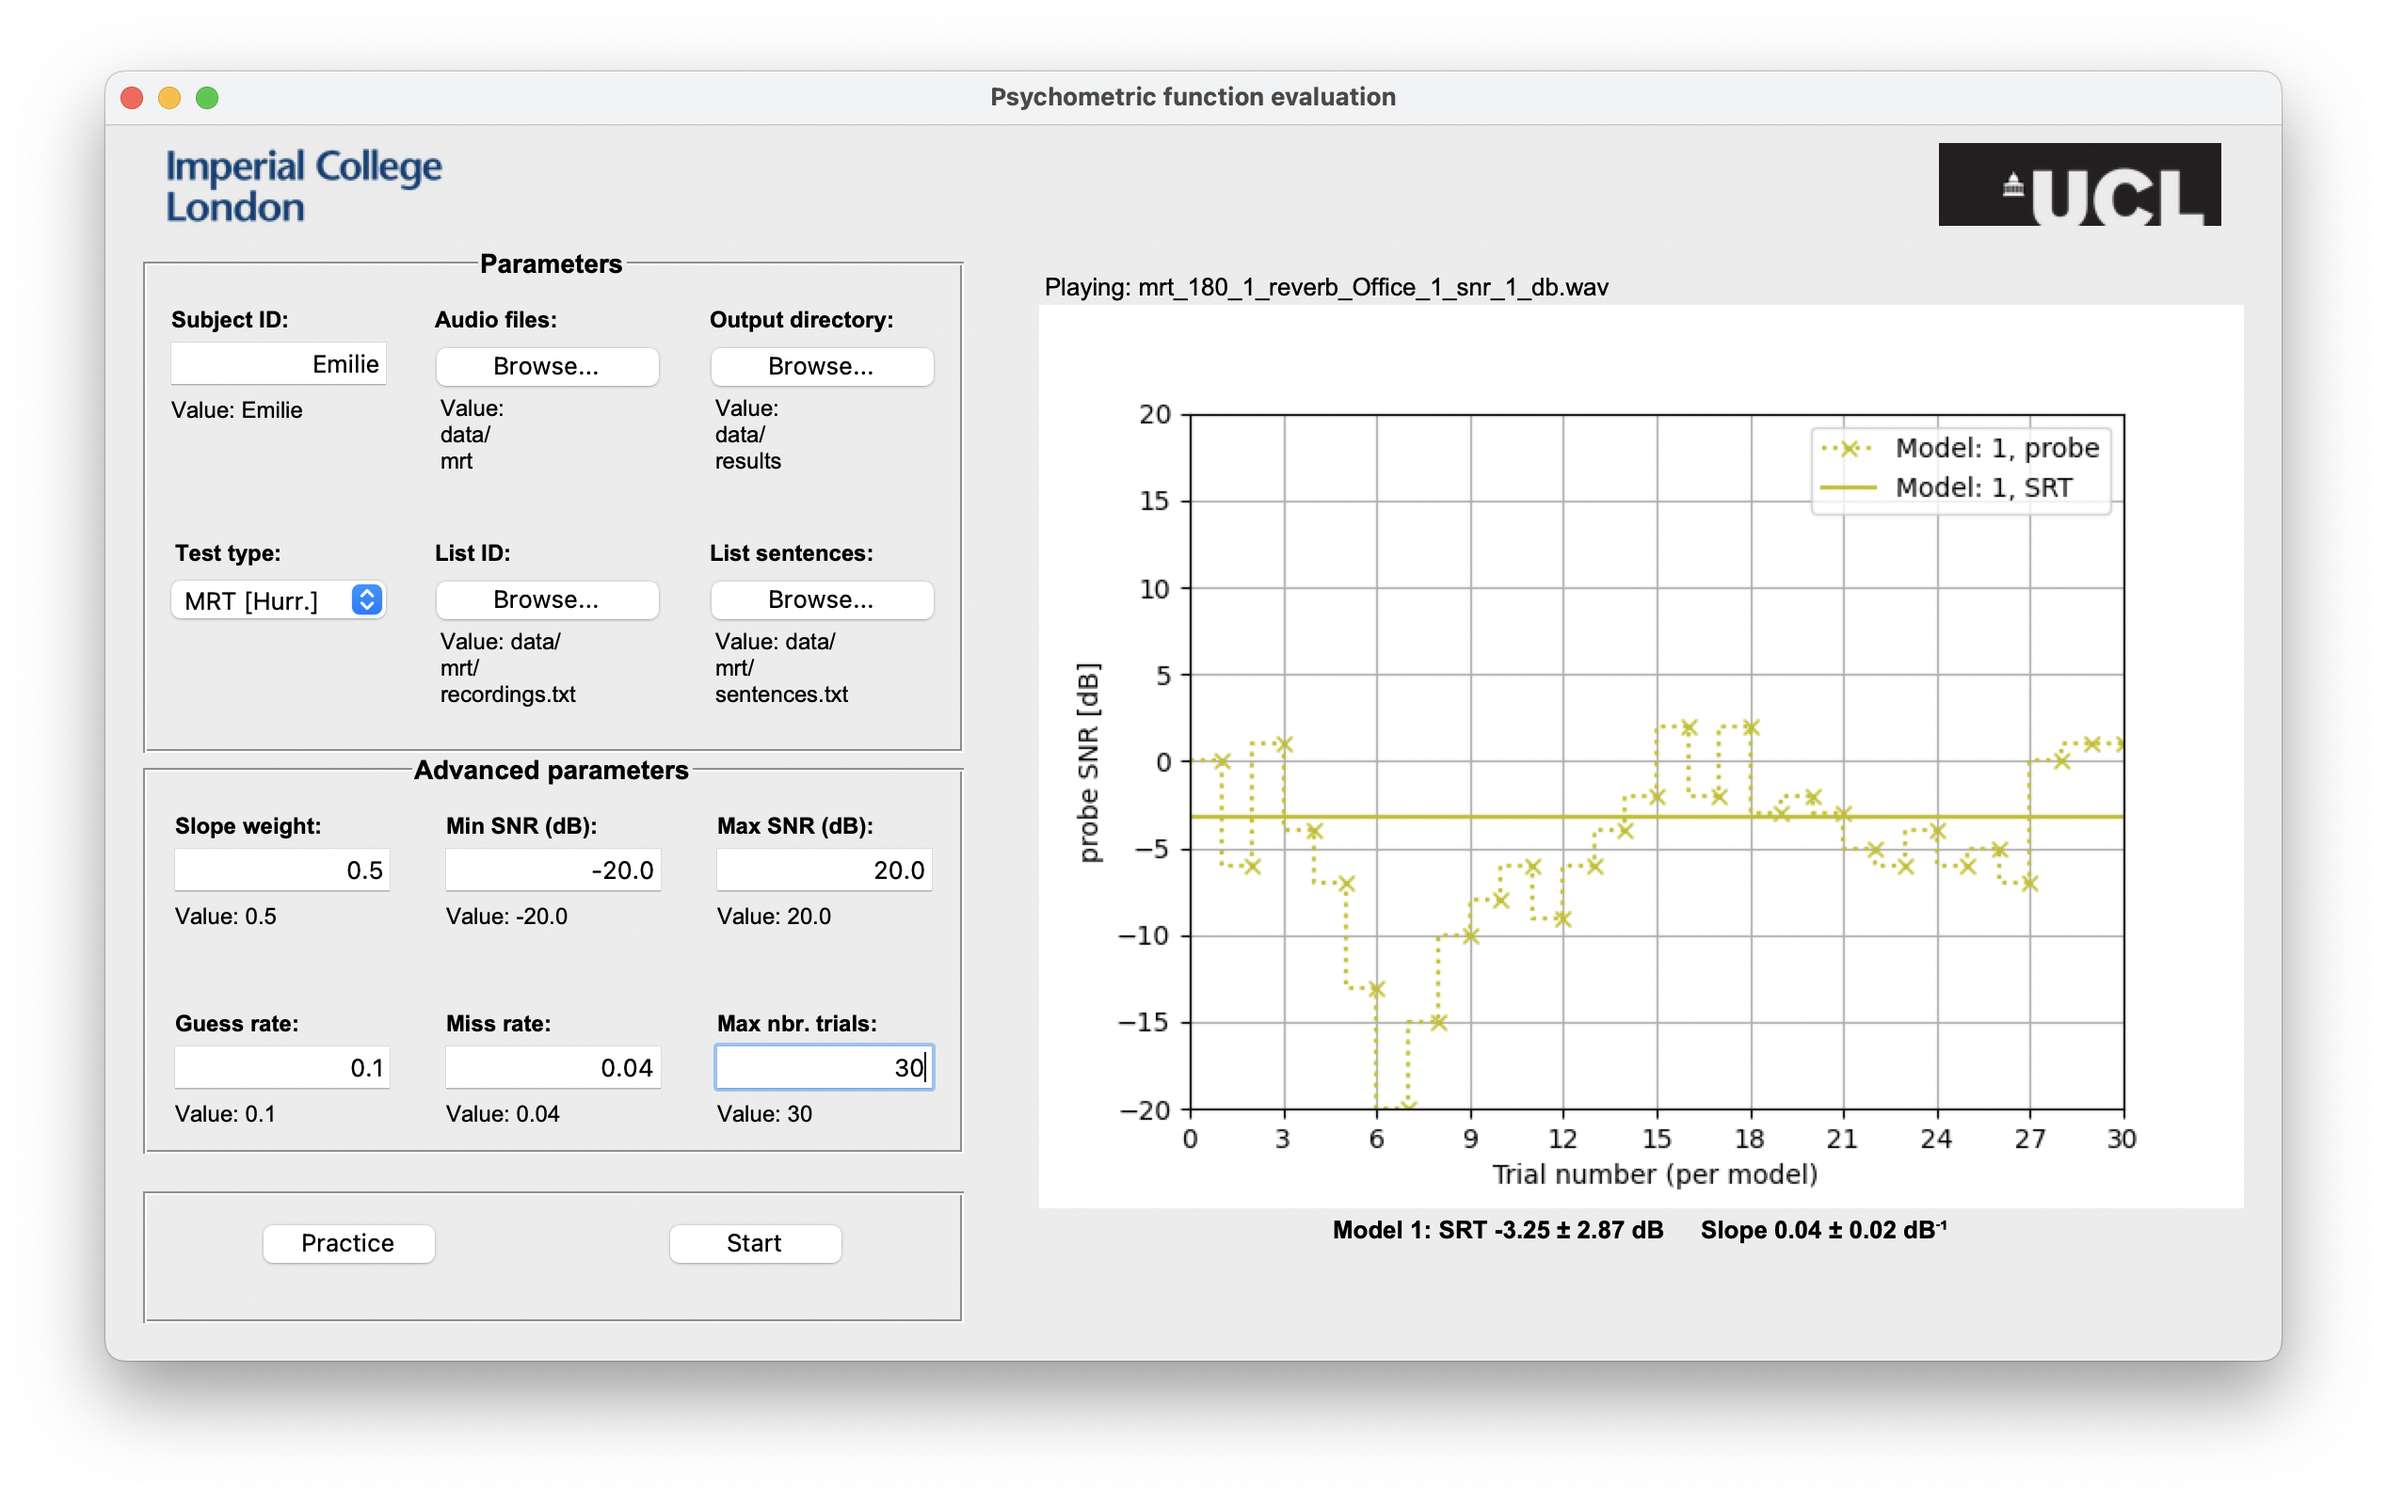
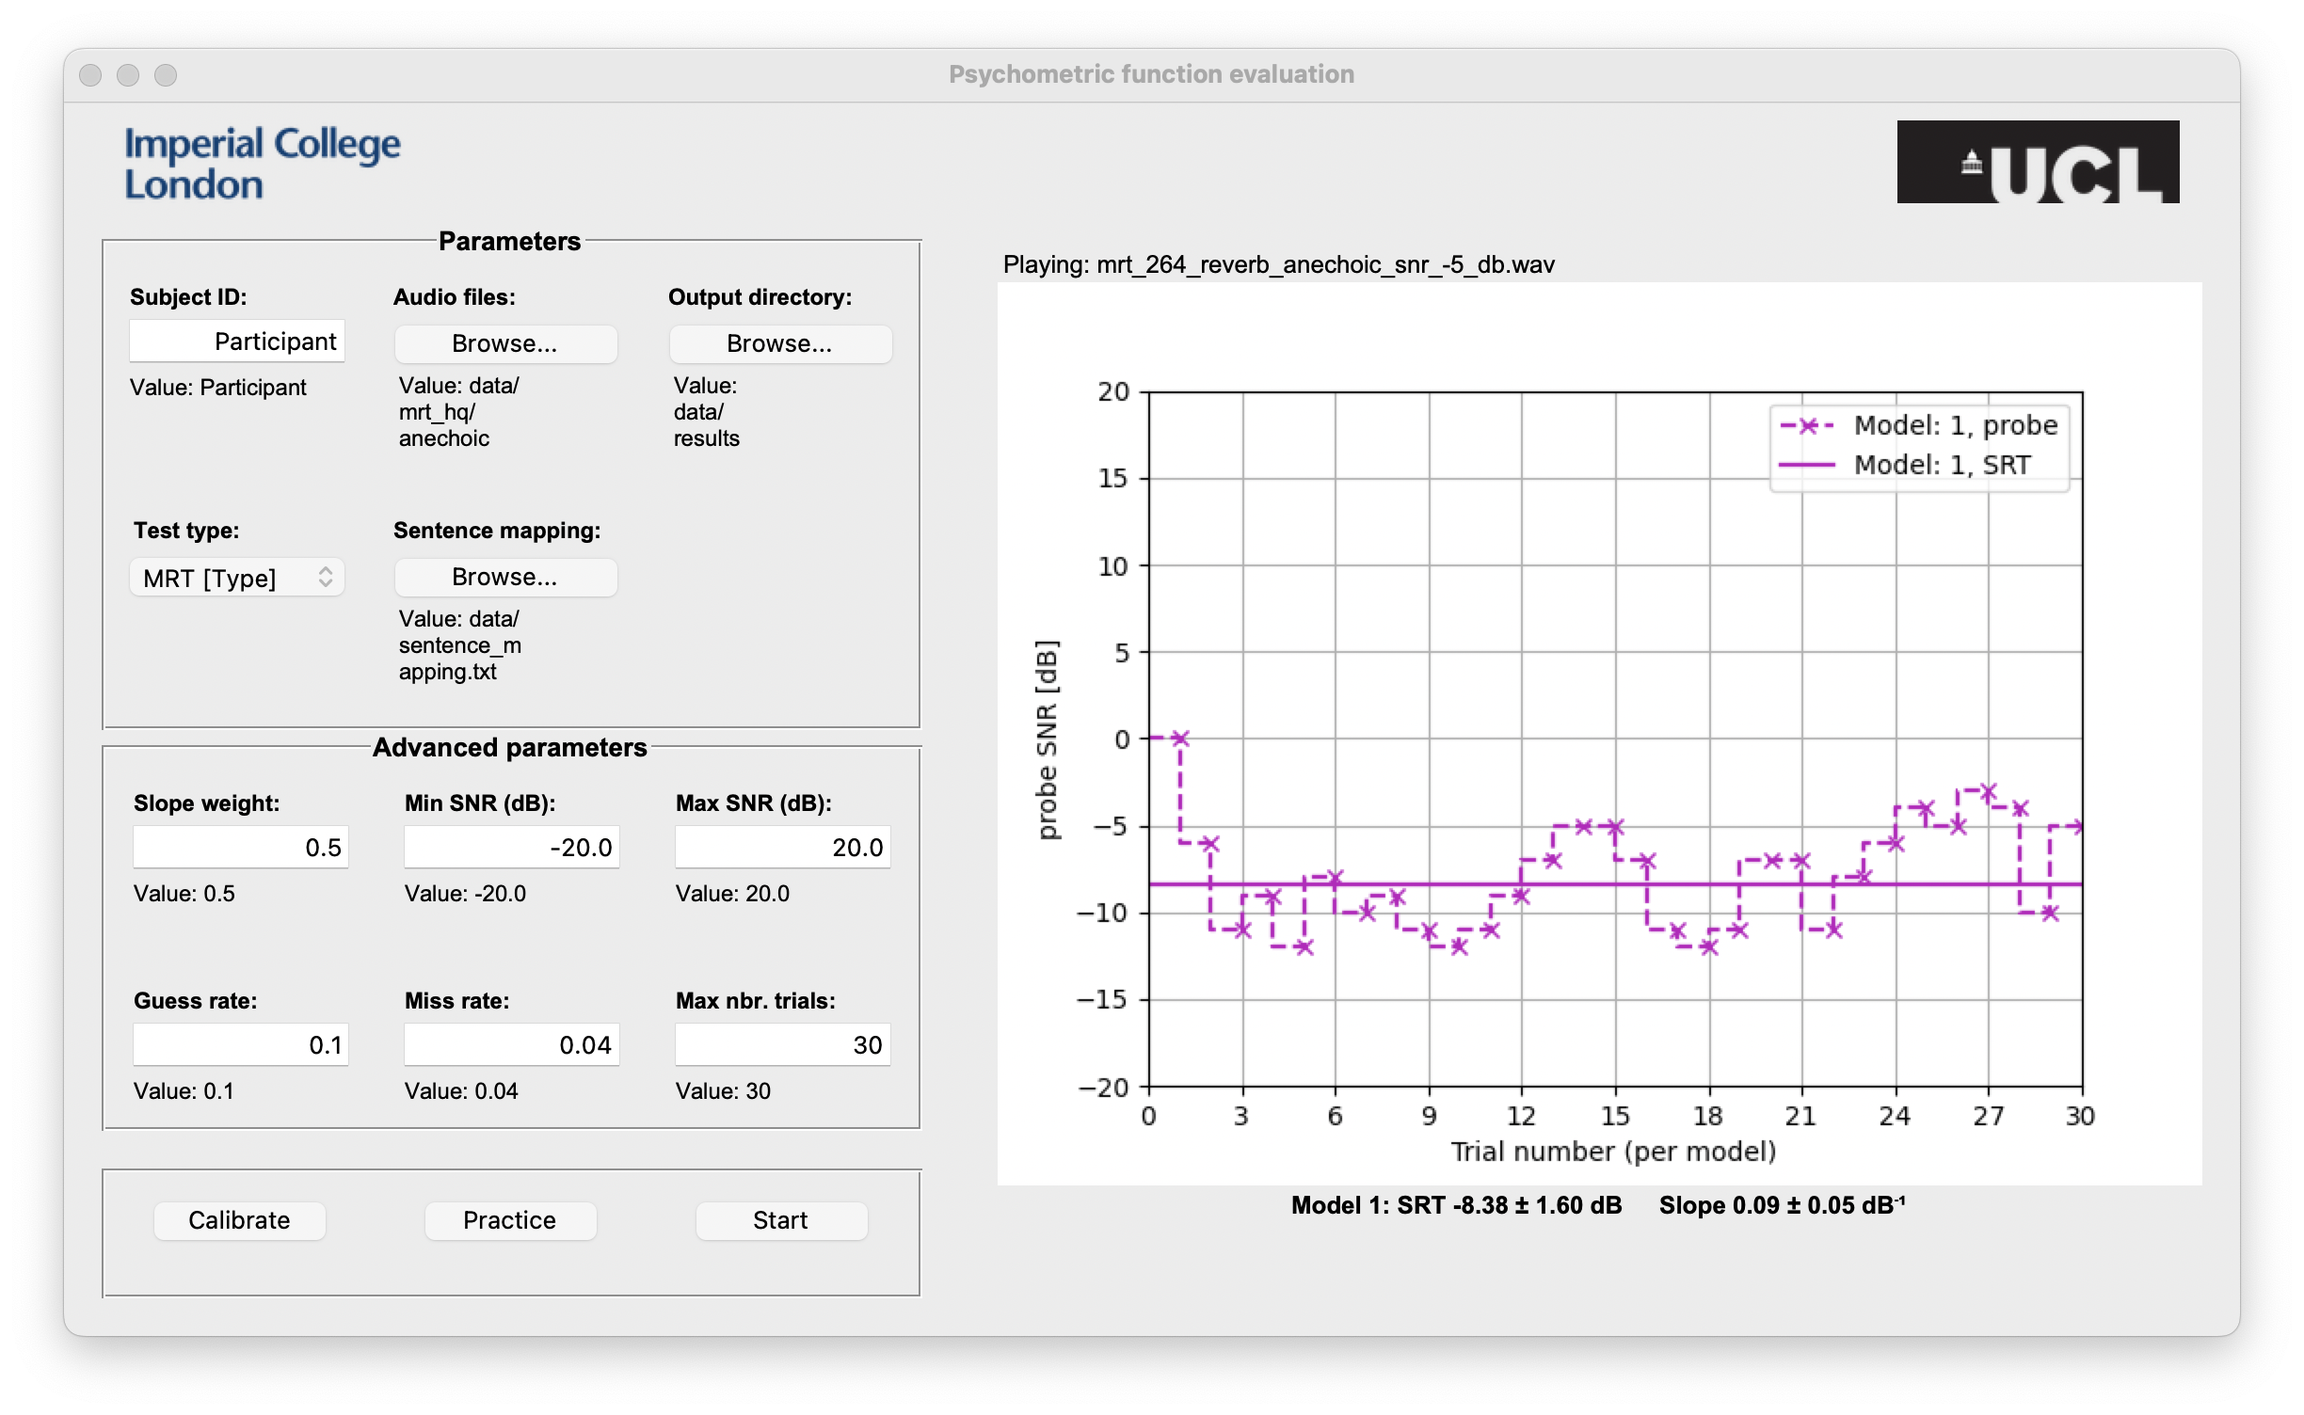
changed GUI pic;

diff --git a/psycest_gui.py b/psycest_gui.py
@@ -897,7 +897,7 @@ class dropdownmenu():
         self.place_on_grid(pos)
 
         if 'MRT' in self.var.get():
-            self.methodfilesvar = StringVar(self.parent,value=os.path.join('data','sentencemapping.txt'))
+            self.methodfilesvar = StringVar(self.parent,value=os.path.join('data','sentence_mapping.txt'))
             # sentencefilevar = StringVar(self.parent,value=os.path.join('utils','test.txt'))
             self.methodfiles.append(browsebuttonfile(self.parent.master, 'Sentence mapping: ', self.methodfilesvar, [1,1,1,1]))
             # self.methodfiles.append(browsebuttonfile(self.parent.master, 'List sentences: ', sentencefilevar, [1,2,1,1]))
@@ -920,7 +920,7 @@ class dropdownmenu():
         self.methodfiles=[]
         self.methodfilesvar=StringVar(self.parent)
         if 'MRT' in self.var.get():
-            self.methodfilesvar = StringVar(self.parent,value=os.path.join('data','sentencemapping.txt'))
+            self.methodfilesvar = StringVar(self.parent,value=os.path.join('data','sentence_mapping.txt'))
             # sentencefilevar = StringVar(self.parent,value=os.path.join('utils','test.txt'))
             self.methodfiles.append(browsebuttonfile(self.parent.master, 'Sentence mapping: ', self.methodfilesvar, [1,1,1,1]))
             # self.methodfiles.append(browsebuttonfile(self.parent.master, 'List sentences: ', sentencefilevar, [1,2,1,1]))

diff --git a/utils/generate_data.m b/utils/generate_data.m
@@ -35,7 +35,7 @@ sentdir = dir(fullfile(sentencepath, '*mrt*.wav'));
 sentnames = sort({sentdir.name});
 nfiles=length(sentnames);
 
-outfolder='./data/mrt_hq';
+outfolder='../data/mrt_hq';
 mkdir(sprintf('%s/%s',outfolder, reverboutname))
 %% generate the data and save
 nfft = 2*(round(0.016*fs)-1);
